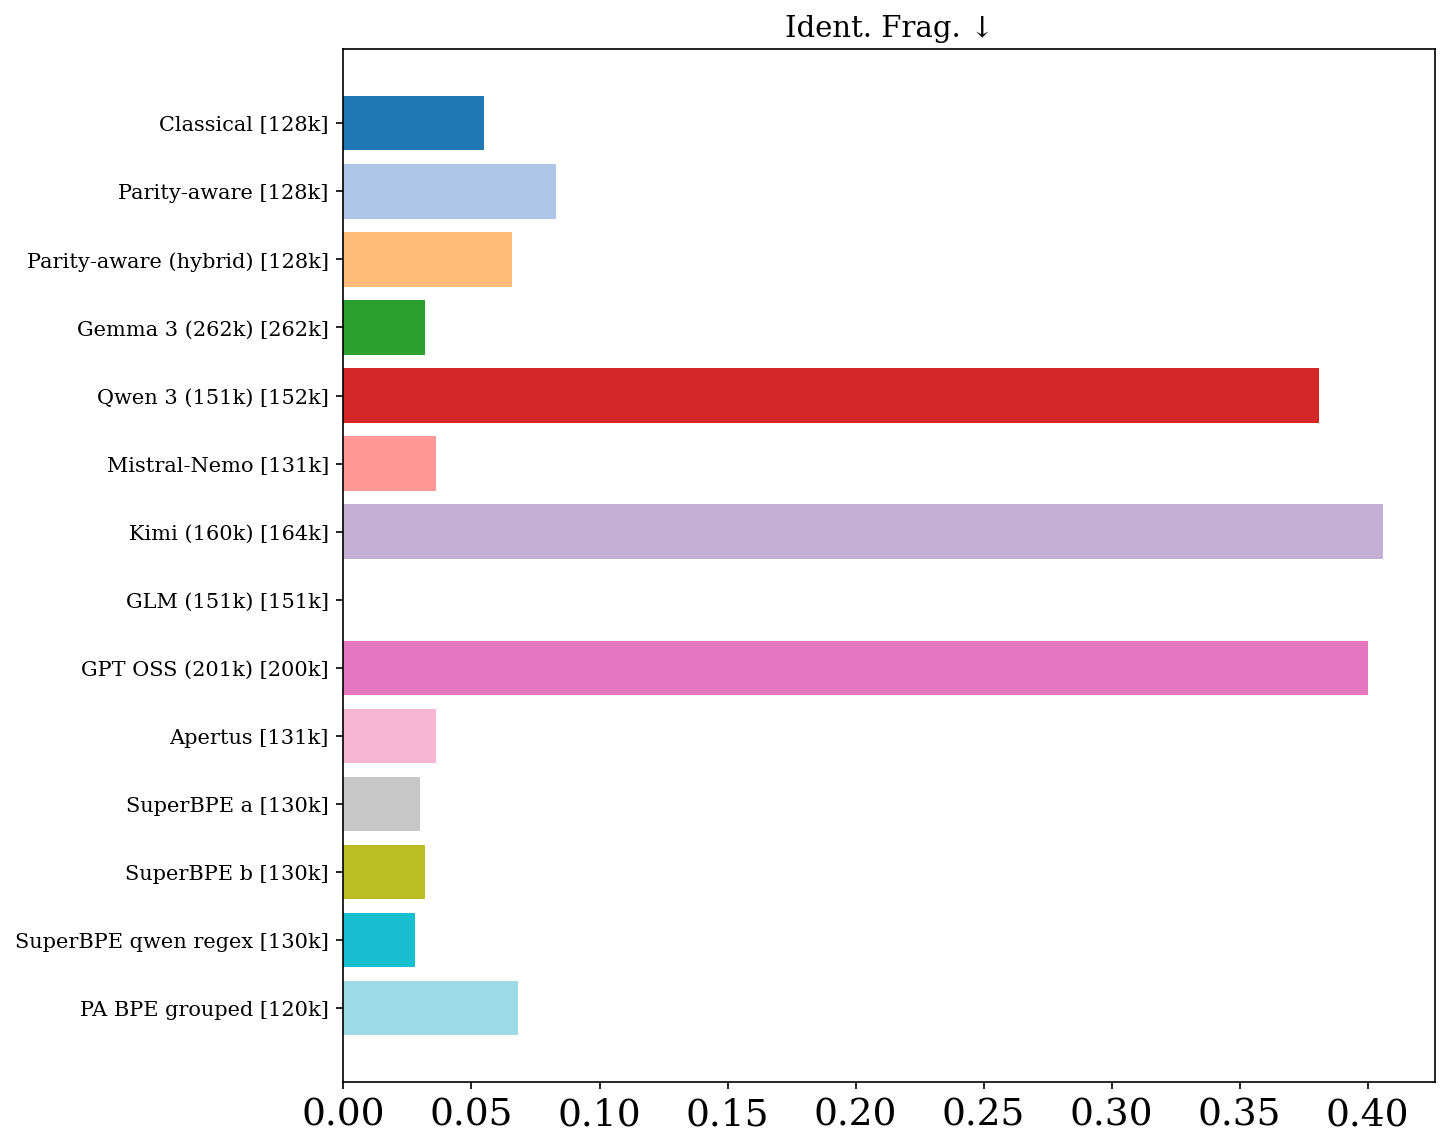
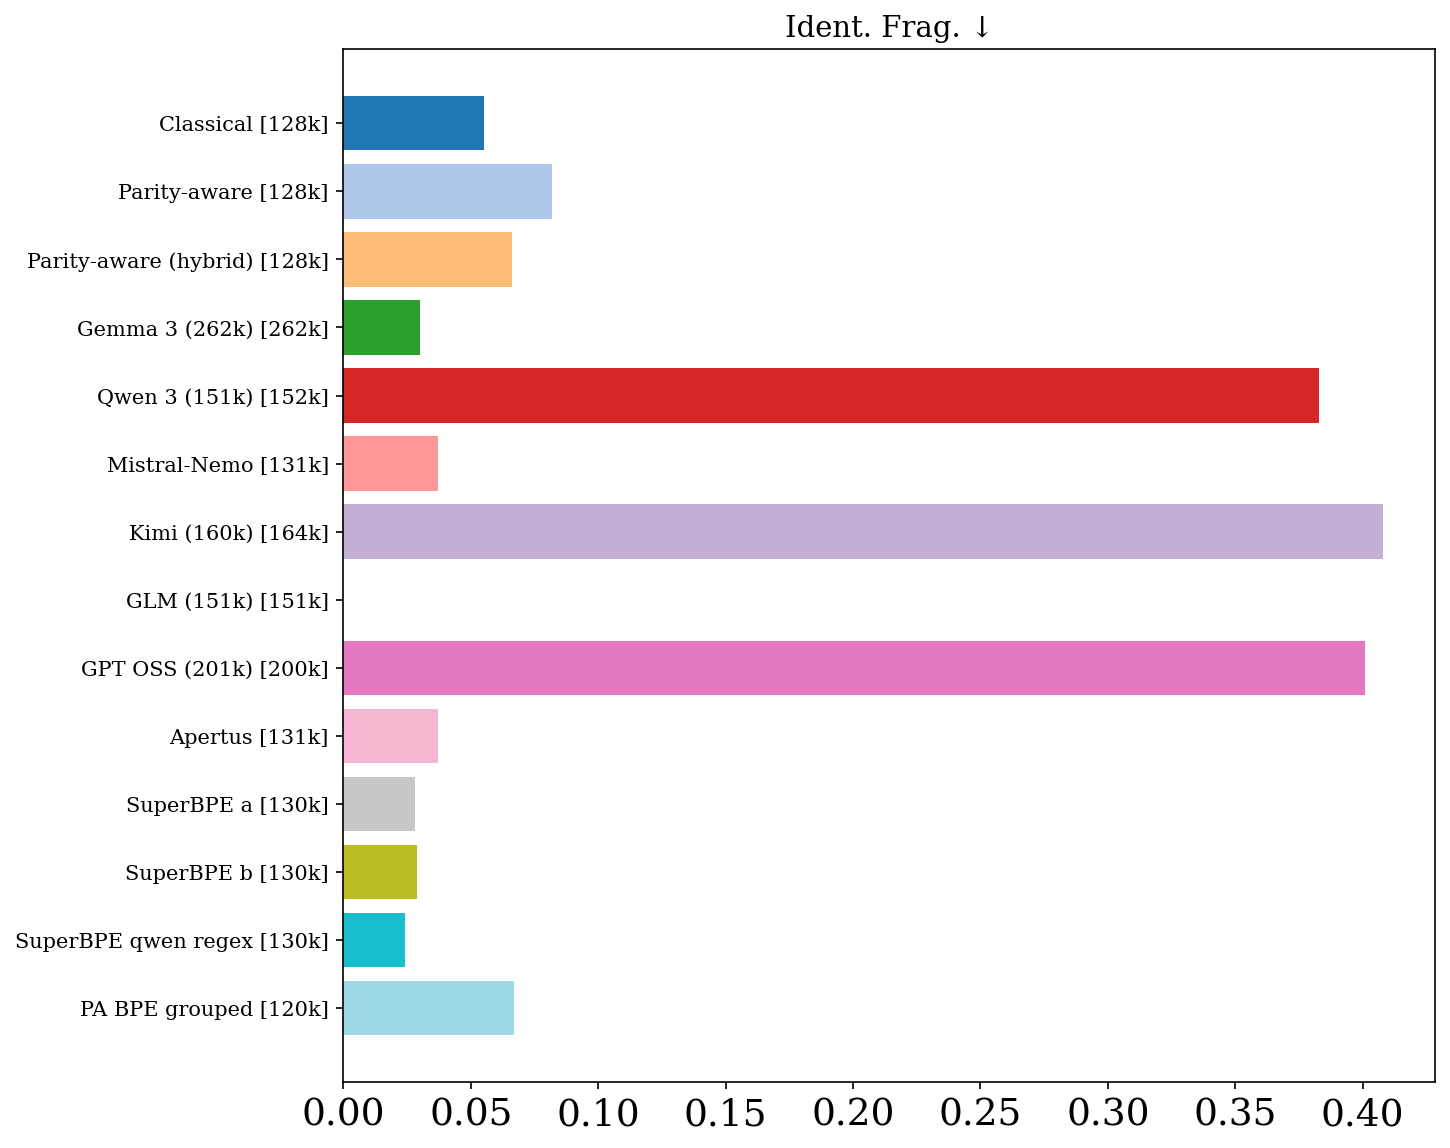
Update RESULTS_flores+_lines.md (2026-02-25 17:48:04)

diff --git a/RESULTS_flores+_lines.md b/RESULTS_flores+_lines.md
@@ -1,34 +1,34 @@
 # Tokenizer Evaluation Results
 
-_Last updated: 2026-02-23 23:27:40_
+_Last updated: 2026-02-25 17:48:05_
 
-| Tokenizer | Vocab Size | Fertility ↓ | Compression Rate ↑ | Vocab Util. ↑ | Avg Token Rank ↓ | Gini ↓ | 3-Digit Align. F1 ↑ | Op. Isolation ↑ | AST Align. ↑ | Ident. Frag. ↓ | Indent Cons. ↑ | Languages | Dataset | User | Date | TTR | Shannon Entropy |
-| --- | --- | --- | --- | --- | --- | --- | --- | --- | --- | --- | --- | --- | --- | --- | --- | --- | --- |
-| Classical (meistecl, flores+) | 128,004 | 59.463 | 0.022 | 0.682 | 4663.5 | 0.246 | **0.767** | 0.224 | 0.149 | 0.055 | **1.000** | 92 | flores+ | meistecl | 2026-02-23 | --- | --- |
-| Parity-aware (meistecl, flores+) | 128,004 | 59.101 | 0.022 | **0.691** | 4456.6 | 0.220 | 0.728 | 0.224 | 0.195 | 0.083 | 1.000 | 92 | flores+ | meistecl | 2026-02-23 | --- | --- |
-| Parity-aware (hybrid) (meistecl, flores+) | 128,004 | 58.267 | 0.022 | 0.691 | 4640.4 | 0.223 | 0.741 | 0.224 | 0.160 | 0.066 | 1.000 | 92 | flores+ | meistecl | 2026-02-23 | --- | --- |
-| Gemma 3 (262k) (meistecl, flores+) | 262,145 | **46.221** | 0.026 | 0.447 | 9461.6 | 0.126 | 0.432 | 0.406 | 0.094 | 0.032 | 0.977 | 92 | flores+ | meistecl | 2026-02-23 | --- | --- |
-| Qwen 3 (151k) (meistecl, flores+) | 151,669 | 75.897 | 0.020 | 0.324 | 1699.6 | 0.312 | 0.363 | 0.497 | 0.602 | 0.381 | 1.000 | 92 | flores+ | meistecl | 2026-02-23 | --- | --- |
-| Mistral-Nemo (meistecl, flores+) | 131,072 | 64.763 | 0.023 | 0.564 | 4318.1 | 0.308 | 0.363 | 0.185 | 0.063 | 0.036 | 1.000 | 92 | flores+ | meistecl | 2026-02-23 | --- | --- |
-| DeepSeek R1 (meistecl, flores+) | 128,815 | 62.674 | 0.021 | 0.418 | 2864.6 | 0.229 | 0.767 | 0.204 | 0.000 | --- | 1.000 | 92 | flores+ | meistecl | 2026-02-23 | --- | --- |
-| Kimi (160k) (meistecl, flores+) | 163,840 | 62.820 | 0.020 | 0.244 | 2283.0 | 0.199 | 0.767 | 0.466 | **0.607** | 0.406 | 1.000 | 92 | flores+ | meistecl | 2026-02-23 | --- | --- |
-| GLM (151k) (meistecl, flores+) | 151,343 | 86.320 | 0.019 | 0.364 | 1631.6 | 0.372 | 0.471 | 0.000 | 0.001 | **0.000** | 1.000 | 92 | flores+ | meistecl | 2026-02-23 | --- | --- |
-| GPT OSS (201k) (meistecl, flores+) | 200,019 | 47.045 | **0.027** | 0.521 | 9529.8 | 0.169 | 0.767 | 0.371 | 0.606 | 0.400 | 1.000 | 92 | flores+ | meistecl | 2026-02-23 | --- | --- |
-| Apertus (meistecl, flores+) | 131,072 | 64.763 | 0.023 | 0.564 | 4318.1 | 0.308 | 0.363 | 0.185 | 0.063 | 0.036 | 1.000 | 92 | flores+ | meistecl | 2026-02-23 | --- | --- |
-| SuperBPE a (meistecl, flores+) | 130,000 | 46.224 | 0.025 | 0.553 | 9333.4 | 0.106 | 0.767 | 0.339 | 0.216 | 0.030 | 1.000 | 92 | flores+ | meistecl | 2026-02-23 | --- | --- |
-| SuperBPE b (meistecl, flores+) | 130,000 | 52.158 | 0.024 | 0.593 | 7591.0 | 0.192 | 0.767 | **0.982** | 0.251 | 0.032 | 1.000 | 92 | flores+ | meistecl | 2026-02-23 | --- | --- |
-| SuperBPE qwen regex (meistecl, flores+) | 130,000 | 48.526 | 0.024 | 0.572 | 9524.6 | 0.097 | 0.363 | 0.268 | 0.272 | 0.028 | 1.000 | 92 | flores+ | meistecl | 2026-02-23 | --- | --- |
-| PA BPE grouped (meistecl, flores+) | 120,260 | 47.187 | 0.024 | 0.632 | 8240.1 | **0.064** | 0.700 | 0.224 | 0.160 | 0.068 | 1.000 | 92 | flores+ | meistecl | 2026-02-23 | --- | --- |
-| Apertus (cmeister747, flores+) | 131,072 | 64.763 | 0.023 | 0.564 | 4318.1 | 0.308 | 0.363 | 0.185 | --- | --- | --- | 92 | flores+ | cmeister747 | 2026-02-22 | 0.0124 | 11.57 |
-| Parity-aware (hybrid) (cmeister747, flores+) | 128,004 | 58.267 | 0.022 | 0.691 | 4640.4 | 0.223 | 0.741 | 0.224 | --- | --- | --- | 92 | flores+ | cmeister747 | 2026-02-22 | 0.0166 | 12.19 |
-| SuperBPE a (cmeister747, flores+) | 130,000 | 46.224 | 0.025 | 0.553 | 9333.4 | 0.106 | 0.767 | 0.339 | --- | --- | --- | 92 | flores+ | cmeister747 | 2026-02-22 | 0.0170 | 14.02 |
-| SuperBPE b (cmeister747, flores+) | 130,000 | 52.158 | 0.024 | 0.593 | 7591.0 | 0.192 | 0.767 | 0.982 | --- | --- | --- | 92 | flores+ | cmeister747 | 2026-02-22 | 0.0161 | 13.28 |
-| PA BPE grouped (cmeister747, flores+) | 120,260 | 47.187 | 0.024 | 0.632 | 8240.1 | 0.064 | 0.700 | 0.224 | --- | --- | --- | 92 | flores+ | cmeister747 | 2026-02-22 | 0.0176 | 13.41 |
-| Qwen 3 (151k) (cmeister747, flores+) | 151,669 | 75.897 | 0.020 | 0.324 | 1699.6 | 0.312 | 0.363 | 0.497 | --- | --- | --- | 92 | flores+ | cmeister747 | 2026-02-22 | 0.0071 | 11.05 |
-| DeepSeek R1 (cmeister747, flores+) | 128,815 | 61.674 | 0.021 | 0.418 | 2910.0 | 0.232 | 0.767 | 0.481 | --- | --- | --- | 92 | flores+ | cmeister747 | 2026-02-22 | 0.0095 | 12.13 |
-| Kimi (160k) (cmeister747, flores+) | 163,840 | 62.820 | 0.020 | 0.244 | 2283.0 | 0.199 | 0.767 | 0.466 | --- | --- | --- | 92 | flores+ | cmeister747 | 2026-02-22 | 0.0069 | 12.09 |
-| GLM (151k) (cmeister747, flores+) | 151,343 | 86.320 | 0.019 | 0.364 | 1631.6 | 0.372 | 0.461 | 0.000 | --- | --- | --- | 92 | flores+ | cmeister747 | 2026-02-22 | 0.0070 | 10.22 |
-| GPT OSS (201k) (cmeister747, flores+) | 200,019 | 47.045 | 0.027 | 0.521 | 9529.8 | 0.169 | 0.767 | 0.371 | --- | --- | --- | 92 | flores+ | cmeister747 | 2026-02-22 | 0.0242 | 13.55 |
-| Apertus_Coarse_Family (cmeister747, flores+) | 131,072 | 67.487 | 0.022 | 0.560 | 4016.1 | 0.302 | 0.363 | 0.249 | --- | --- | --- | 92 | flores+ | cmeister747 | 2026-02-22 | 0.0119 | 11.31 |
-| BPE_Coarse_Family (cmeister747, flores+) | 131,072 | 49.707 | 0.024 | 0.543 | 7585.0 | 0.096 | 0.363 | 0.494 | --- | --- | --- | 92 | flores+ | cmeister747 | 2026-02-22 | 0.0156 | 13.39 |
-| Boundless pairwise aggressive n2 (dkletz, flores+) | 5,033 | 88.335 | 0.013 | 0.644 | **108.7** | 0.082 | --- | 0.047 | --- | --- | --- | 92 | flores+ | dkletz | 2026-02-22 | 0.0004 | 7.19 |
+| Tokenizer | Vocab Size | Fertility ↓ | Compression Rate ↑ | Vocab Util. ↑ | Avg Token Rank ↓ | Gini ↓ | 3-Digit Align. F1 ↑ | Op. Isolation ↑ | AST Align. ↑ | Ident. Frag. ↓ | Depth Corr. ↑ | Pat. Stability ↑ | UTF-8 Integ. ↑ | Char Split ↓ | Languages | Dataset | User | Date | Indent Cons. | TTR | Shannon Entropy |
+| --- | --- | --- | --- | --- | --- | --- | --- | --- | --- | --- | --- | --- | --- | --- | --- | --- | --- | --- | --- | --- | --- |
+| Classical (meistecl, flores+) | 128,004 | 59.463 | 0.022 | 0.682 | 4663.5 | 0.246 | **0.767** | 0.224 | 0.148 | 0.055 | **0.000** | **1.000** | **1.000** | 0.0003 | 92 | flores+ | meistecl | 2026-02-25 | --- | --- | --- |
+| Parity-aware (meistecl, flores+) | 128,004 | 59.101 | 0.022 | **0.691** | 4456.6 | 0.220 | 0.728 | 0.224 | 0.188 | 0.082 | 0.000 | 1.000 | 1.000 | 0.0003 | 92 | flores+ | meistecl | 2026-02-25 | --- | --- | --- |
+| Parity-aware (hybrid) (meistecl, flores+) | 128,004 | 58.267 | 0.022 | 0.691 | 4640.4 | 0.223 | 0.741 | 0.224 | 0.160 | 0.066 | 0.000 | 1.000 | 1.000 | 0.0003 | 92 | flores+ | meistecl | 2026-02-25 | --- | --- | --- |
+| Gemma 3 (262k) (meistecl, flores+) | 262,145 | **46.221** | 0.026 | 0.447 | 9461.6 | 0.126 | 0.432 | 0.406 | 0.088 | 0.030 | -0.113 | 0.966 | 0.999 | 0.0010 | 92 | flores+ | meistecl | 2026-02-25 | --- | --- | --- |
+| Qwen 3 (151k) (meistecl, flores+) | 151,669 | 75.897 | 0.020 | 0.324 | 1699.6 | 0.312 | 0.363 | 0.497 | 0.605 | 0.383 | 0.000 | 1.000 | 1.000 | 0.0023 | 92 | flores+ | meistecl | 2026-02-25 | --- | --- | --- |
+| Mistral-Nemo (meistecl, flores+) | 131,072 | 64.763 | 0.023 | 0.564 | 4318.1 | 0.308 | 0.363 | 0.185 | 0.060 | 0.037 | 0.000 | 1.000 | 1.000 | 0.0005 | 92 | flores+ | meistecl | 2026-02-25 | --- | --- | --- |
+| DeepSeek R1 (meistecl, flores+) | 128,815 | 62.674 | 0.021 | 0.418 | 2864.6 | 0.229 | 0.767 | 0.204 | 0.000 | --- | 0.000 | 1.000 | 1.000 | **0.0000** | 92 | flores+ | meistecl | 2026-02-25 | --- | --- | --- |
+| Kimi (160k) (meistecl, flores+) | 163,840 | 62.820 | 0.020 | 0.244 | 2283.0 | 0.199 | 0.767 | 0.466 | **0.609** | 0.408 | 0.000 | 1.000 | 1.000 | 0.0015 | 92 | flores+ | meistecl | 2026-02-25 | --- | --- | --- |
+| GLM (151k) (meistecl, flores+) | 151,343 | 86.320 | 0.019 | 0.364 | 1631.6 | 0.372 | 0.471 | 0.000 | 0.001 | **0.000** | 0.000 | 1.000 | 1.000 | 0.0000 | 92 | flores+ | meistecl | 2026-02-25 | --- | --- | --- |
+| GPT OSS (201k) (meistecl, flores+) | 200,019 | 47.045 | **0.027** | 0.521 | 9529.8 | 0.169 | 0.767 | 0.371 | 0.609 | 0.401 | 0.000 | 1.000 | 1.000 | 0.0003 | 92 | flores+ | meistecl | 2026-02-25 | --- | --- | --- |
+| Apertus (meistecl, flores+) | 131,072 | 64.763 | 0.023 | 0.564 | 4318.1 | 0.308 | 0.363 | 0.185 | 0.060 | 0.037 | 0.000 | 1.000 | 1.000 | 0.0005 | 92 | flores+ | meistecl | 2026-02-25 | --- | --- | --- |
+| SuperBPE a (meistecl, flores+) | 130,000 | 46.224 | 0.025 | 0.553 | 9333.4 | 0.106 | 0.767 | 0.339 | 0.225 | 0.028 | 0.000 | 1.000 | 1.000 | 0.0002 | 92 | flores+ | meistecl | 2026-02-25 | --- | --- | --- |
+| SuperBPE b (meistecl, flores+) | 130,000 | 52.158 | 0.024 | 0.593 | 7591.0 | 0.192 | 0.767 | **0.982** | 0.259 | 0.029 | 0.000 | 1.000 | 1.000 | 0.0002 | 92 | flores+ | meistecl | 2026-02-25 | --- | --- | --- |
+| SuperBPE qwen regex (meistecl, flores+) | 130,000 | 48.526 | 0.024 | 0.572 | 9524.6 | 0.097 | 0.363 | 0.268 | 0.284 | 0.024 | 0.000 | 1.000 | 1.000 | 0.0005 | 92 | flores+ | meistecl | 2026-02-25 | --- | --- | --- |
+| PA BPE grouped (meistecl, flores+) | 120,260 | 47.187 | 0.024 | 0.632 | 8240.1 | **0.064** | 0.700 | 0.224 | 0.159 | 0.067 | 0.000 | 1.000 | 1.000 | 0.0002 | 92 | flores+ | meistecl | 2026-02-25 | --- | --- | --- |
+| Apertus (cmeister747, flores+) | 131,072 | 64.763 | 0.023 | 0.564 | 4318.1 | 0.308 | 0.363 | 0.185 | --- | --- | --- | --- | --- | --- | 92 | flores+ | cmeister747 | 2026-02-22 | --- | 0.0124 | 11.57 |
+| Parity-aware (hybrid) (cmeister747, flores+) | 128,004 | 58.267 | 0.022 | 0.691 | 4640.4 | 0.223 | 0.741 | 0.224 | --- | --- | --- | --- | --- | --- | 92 | flores+ | cmeister747 | 2026-02-22 | --- | 0.0166 | 12.19 |
+| SuperBPE a (cmeister747, flores+) | 130,000 | 46.224 | 0.025 | 0.553 | 9333.4 | 0.106 | 0.767 | 0.339 | --- | --- | --- | --- | --- | --- | 92 | flores+ | cmeister747 | 2026-02-22 | --- | 0.0170 | 14.02 |
+| SuperBPE b (cmeister747, flores+) | 130,000 | 52.158 | 0.024 | 0.593 | 7591.0 | 0.192 | 0.767 | 0.982 | --- | --- | --- | --- | --- | --- | 92 | flores+ | cmeister747 | 2026-02-22 | --- | 0.0161 | 13.28 |
+| PA BPE grouped (cmeister747, flores+) | 120,260 | 47.187 | 0.024 | 0.632 | 8240.1 | 0.064 | 0.700 | 0.224 | --- | --- | --- | --- | --- | --- | 92 | flores+ | cmeister747 | 2026-02-22 | --- | 0.0176 | 13.41 |
+| Qwen 3 (151k) (cmeister747, flores+) | 151,669 | 75.897 | 0.020 | 0.324 | 1699.6 | 0.312 | 0.363 | 0.497 | --- | --- | --- | --- | --- | --- | 92 | flores+ | cmeister747 | 2026-02-22 | --- | 0.0071 | 11.05 |
+| DeepSeek R1 (cmeister747, flores+) | 128,815 | 61.674 | 0.021 | 0.418 | 2910.0 | 0.232 | 0.767 | 0.481 | --- | --- | --- | --- | --- | --- | 92 | flores+ | cmeister747 | 2026-02-22 | --- | 0.0095 | 12.13 |
+| Kimi (160k) (cmeister747, flores+) | 163,840 | 62.820 | 0.020 | 0.244 | 2283.0 | 0.199 | 0.767 | 0.466 | --- | --- | --- | --- | --- | --- | 92 | flores+ | cmeister747 | 2026-02-22 | --- | 0.0069 | 12.09 |
+| GLM (151k) (cmeister747, flores+) | 151,343 | 86.320 | 0.019 | 0.364 | 1631.6 | 0.372 | 0.461 | 0.000 | --- | --- | --- | --- | --- | --- | 92 | flores+ | cmeister747 | 2026-02-22 | --- | 0.0070 | 10.22 |
+| GPT OSS (201k) (cmeister747, flores+) | 200,019 | 47.045 | 0.027 | 0.521 | 9529.8 | 0.169 | 0.767 | 0.371 | --- | --- | --- | --- | --- | --- | 92 | flores+ | cmeister747 | 2026-02-22 | --- | 0.0242 | 13.55 |
+| Apertus_Coarse_Family (cmeister747, flores+) | 131,072 | 67.487 | 0.022 | 0.560 | 4016.1 | 0.302 | 0.363 | 0.249 | --- | --- | --- | --- | --- | --- | 92 | flores+ | cmeister747 | 2026-02-22 | --- | 0.0119 | 11.31 |
+| BPE_Coarse_Family (cmeister747, flores+) | 131,072 | 49.707 | 0.024 | 0.543 | 7585.0 | 0.096 | 0.363 | 0.494 | --- | --- | --- | --- | --- | --- | 92 | flores+ | cmeister747 | 2026-02-22 | --- | 0.0156 | 13.39 |
+| Boundless pairwise aggressive n2 (dkletz, flores+) | 5,033 | 88.335 | 0.013 | 0.644 | **108.7** | 0.082 | --- | 0.047 | --- | --- | --- | --- | --- | --- | 92 | flores+ | dkletz | 2026-02-22 | --- | 0.0004 | 7.19 |
